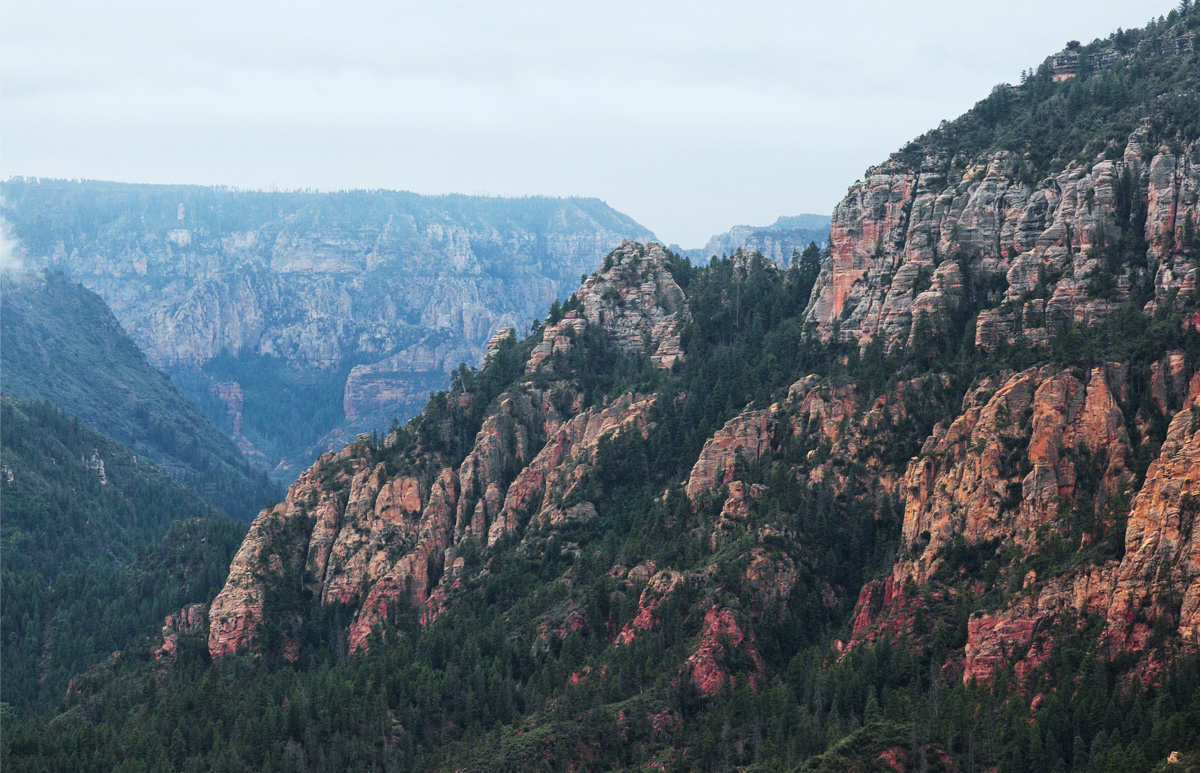
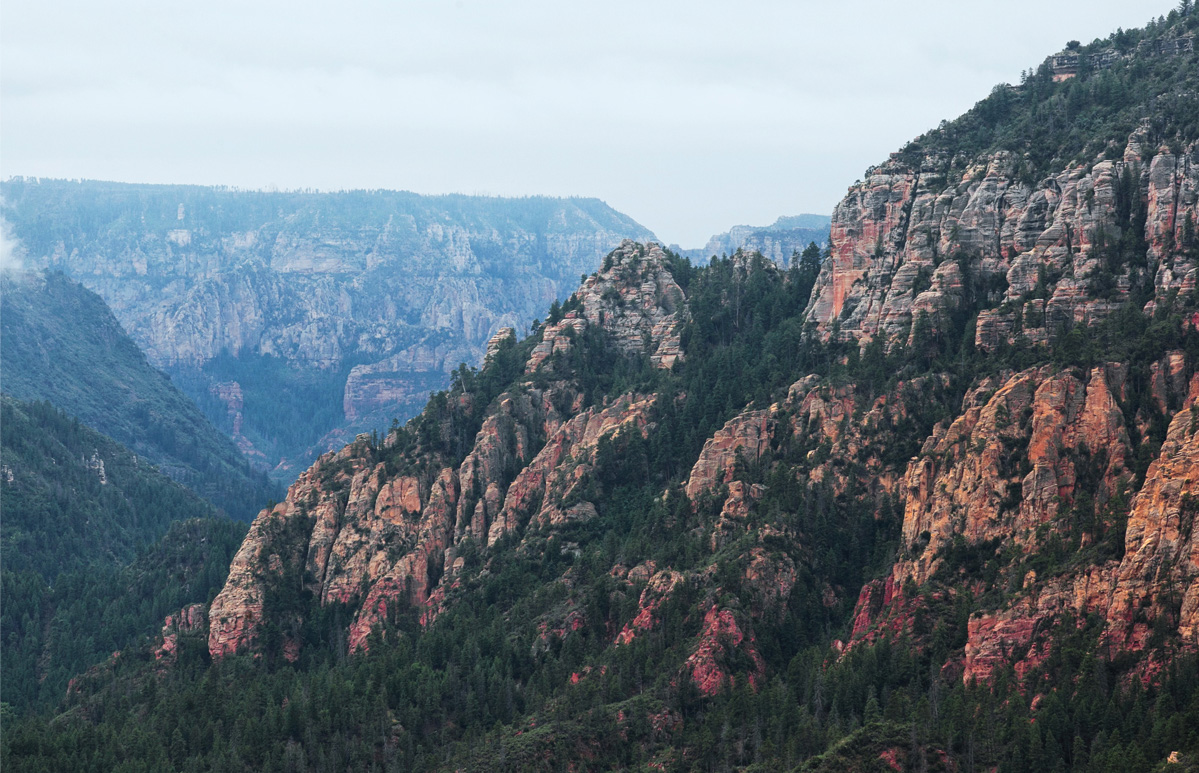
сделал background-photo.jpg как на макете

diff --git a/index.html b/index.html
@@ -27,7 +27,7 @@
         </div>
         <h2 class="visually-hidden">Большая Фотография городка Седона</h2>
         <div class="photo-scenery">
-          <img src="img/background-photo.jpg" width="1201" height="773" alt="Пейзаж Седоны">
+          <img src="img/background-photo.jpg" width="1200" height="773" alt="Пейзаж Седоны">
         </div>
       </section>
       <div class="reason-header">

diff --git a/css/style.css b/css/style.css
@@ -173,7 +173,7 @@ img {
     -webkit-transform: translateY(-50%);
     -ms-transform: translateY(-50%);
     transform: translateY(-50%);
-    width: 100%;
+    width: 1200px;
     background-color: #4d5860;
 }
 
